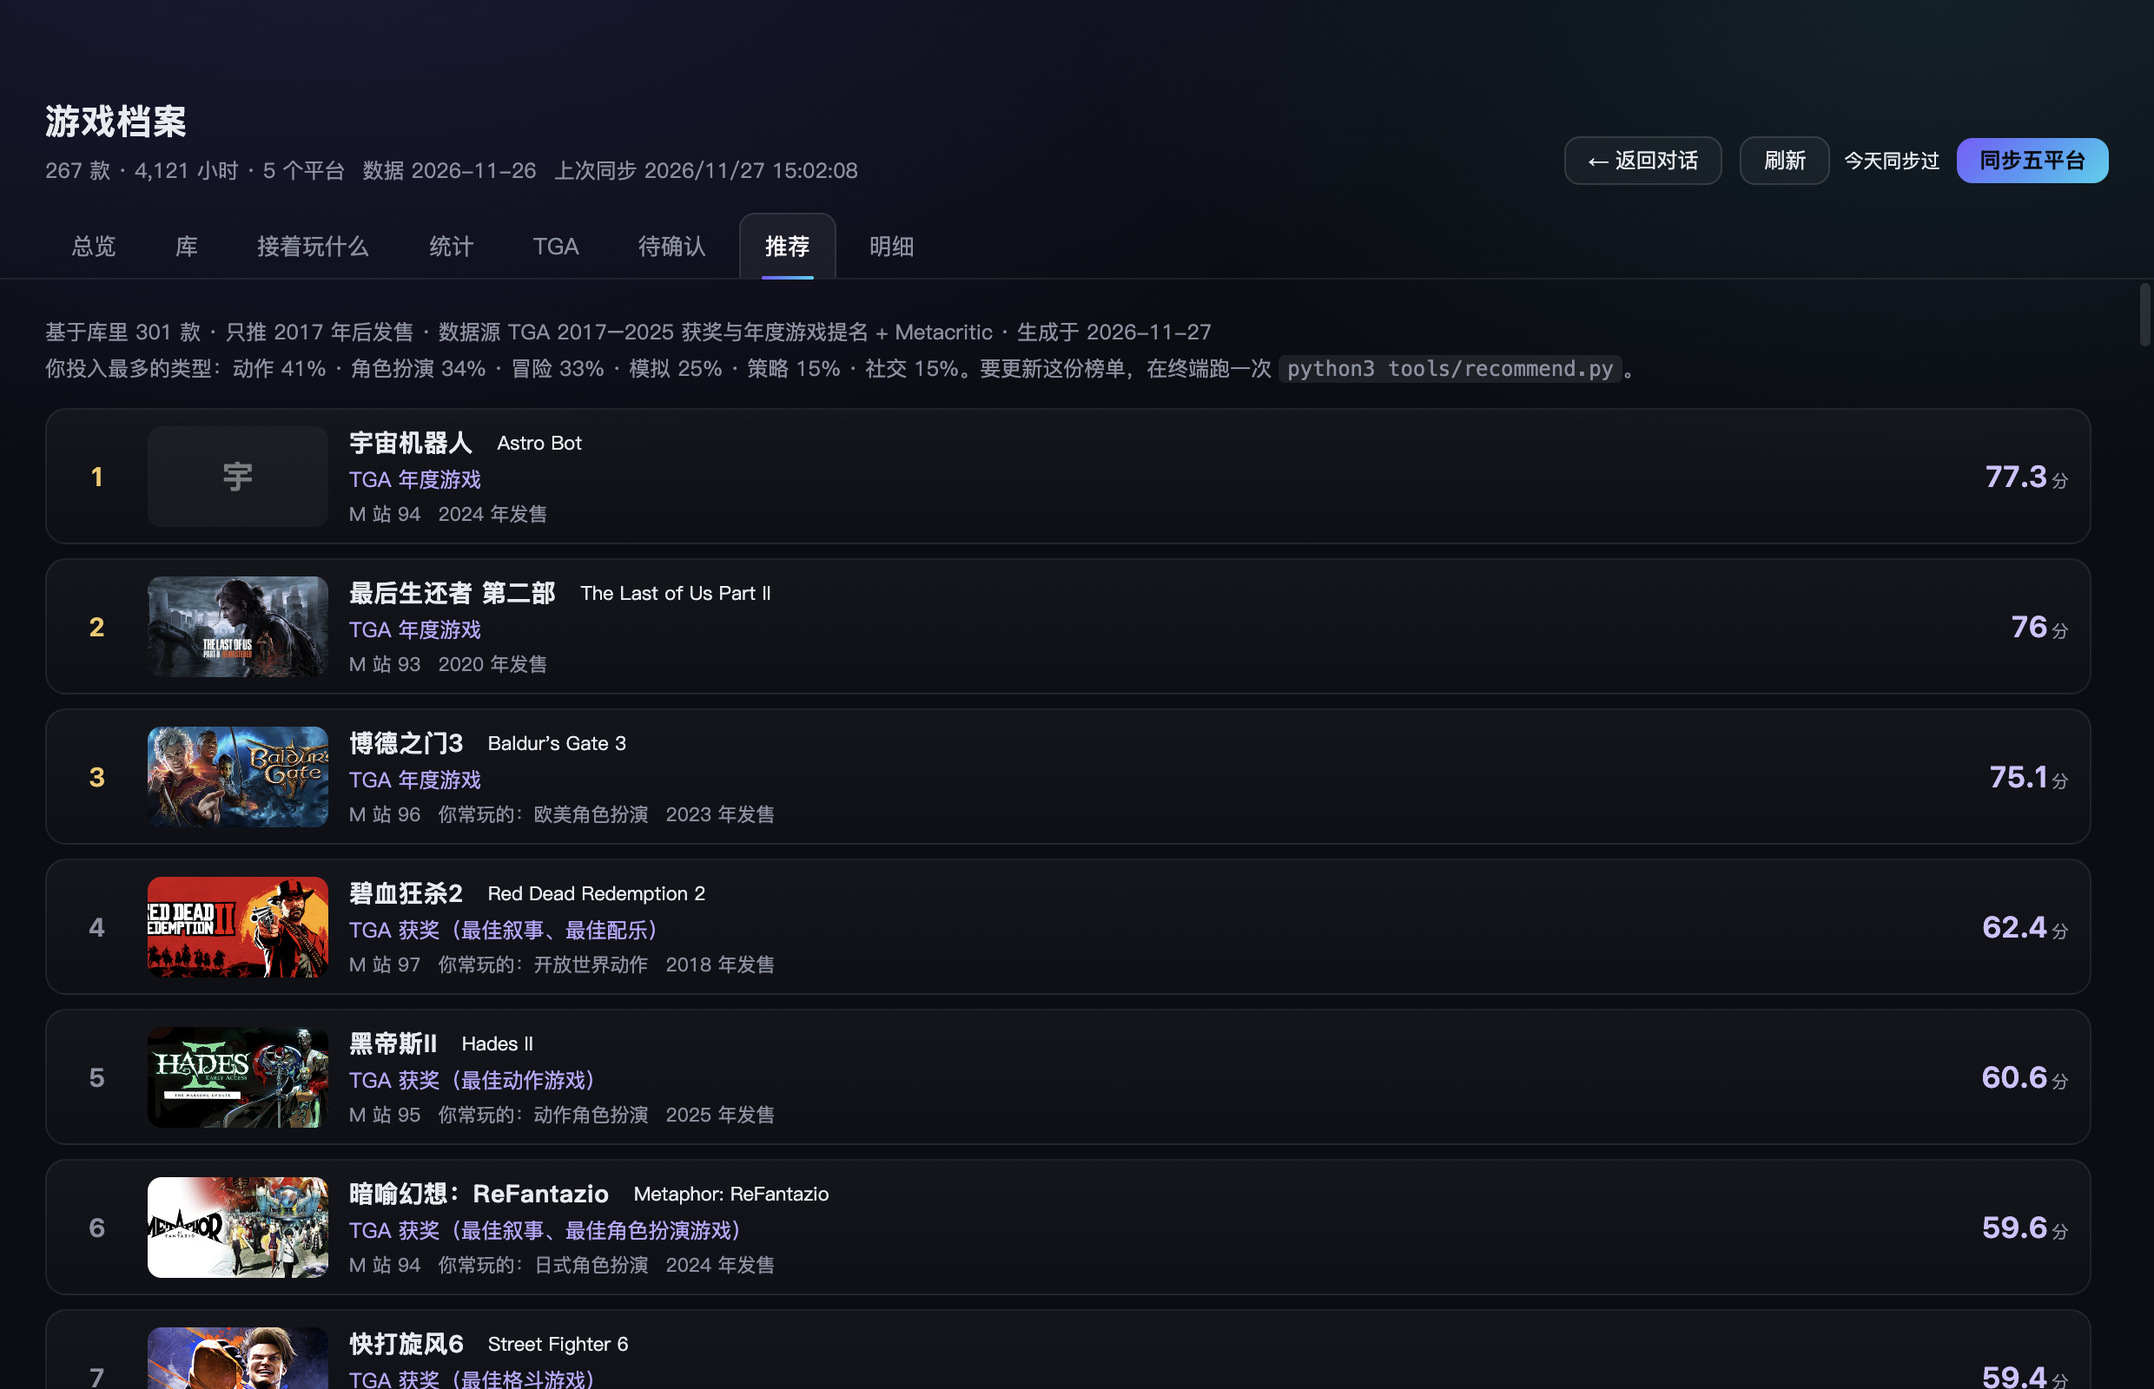
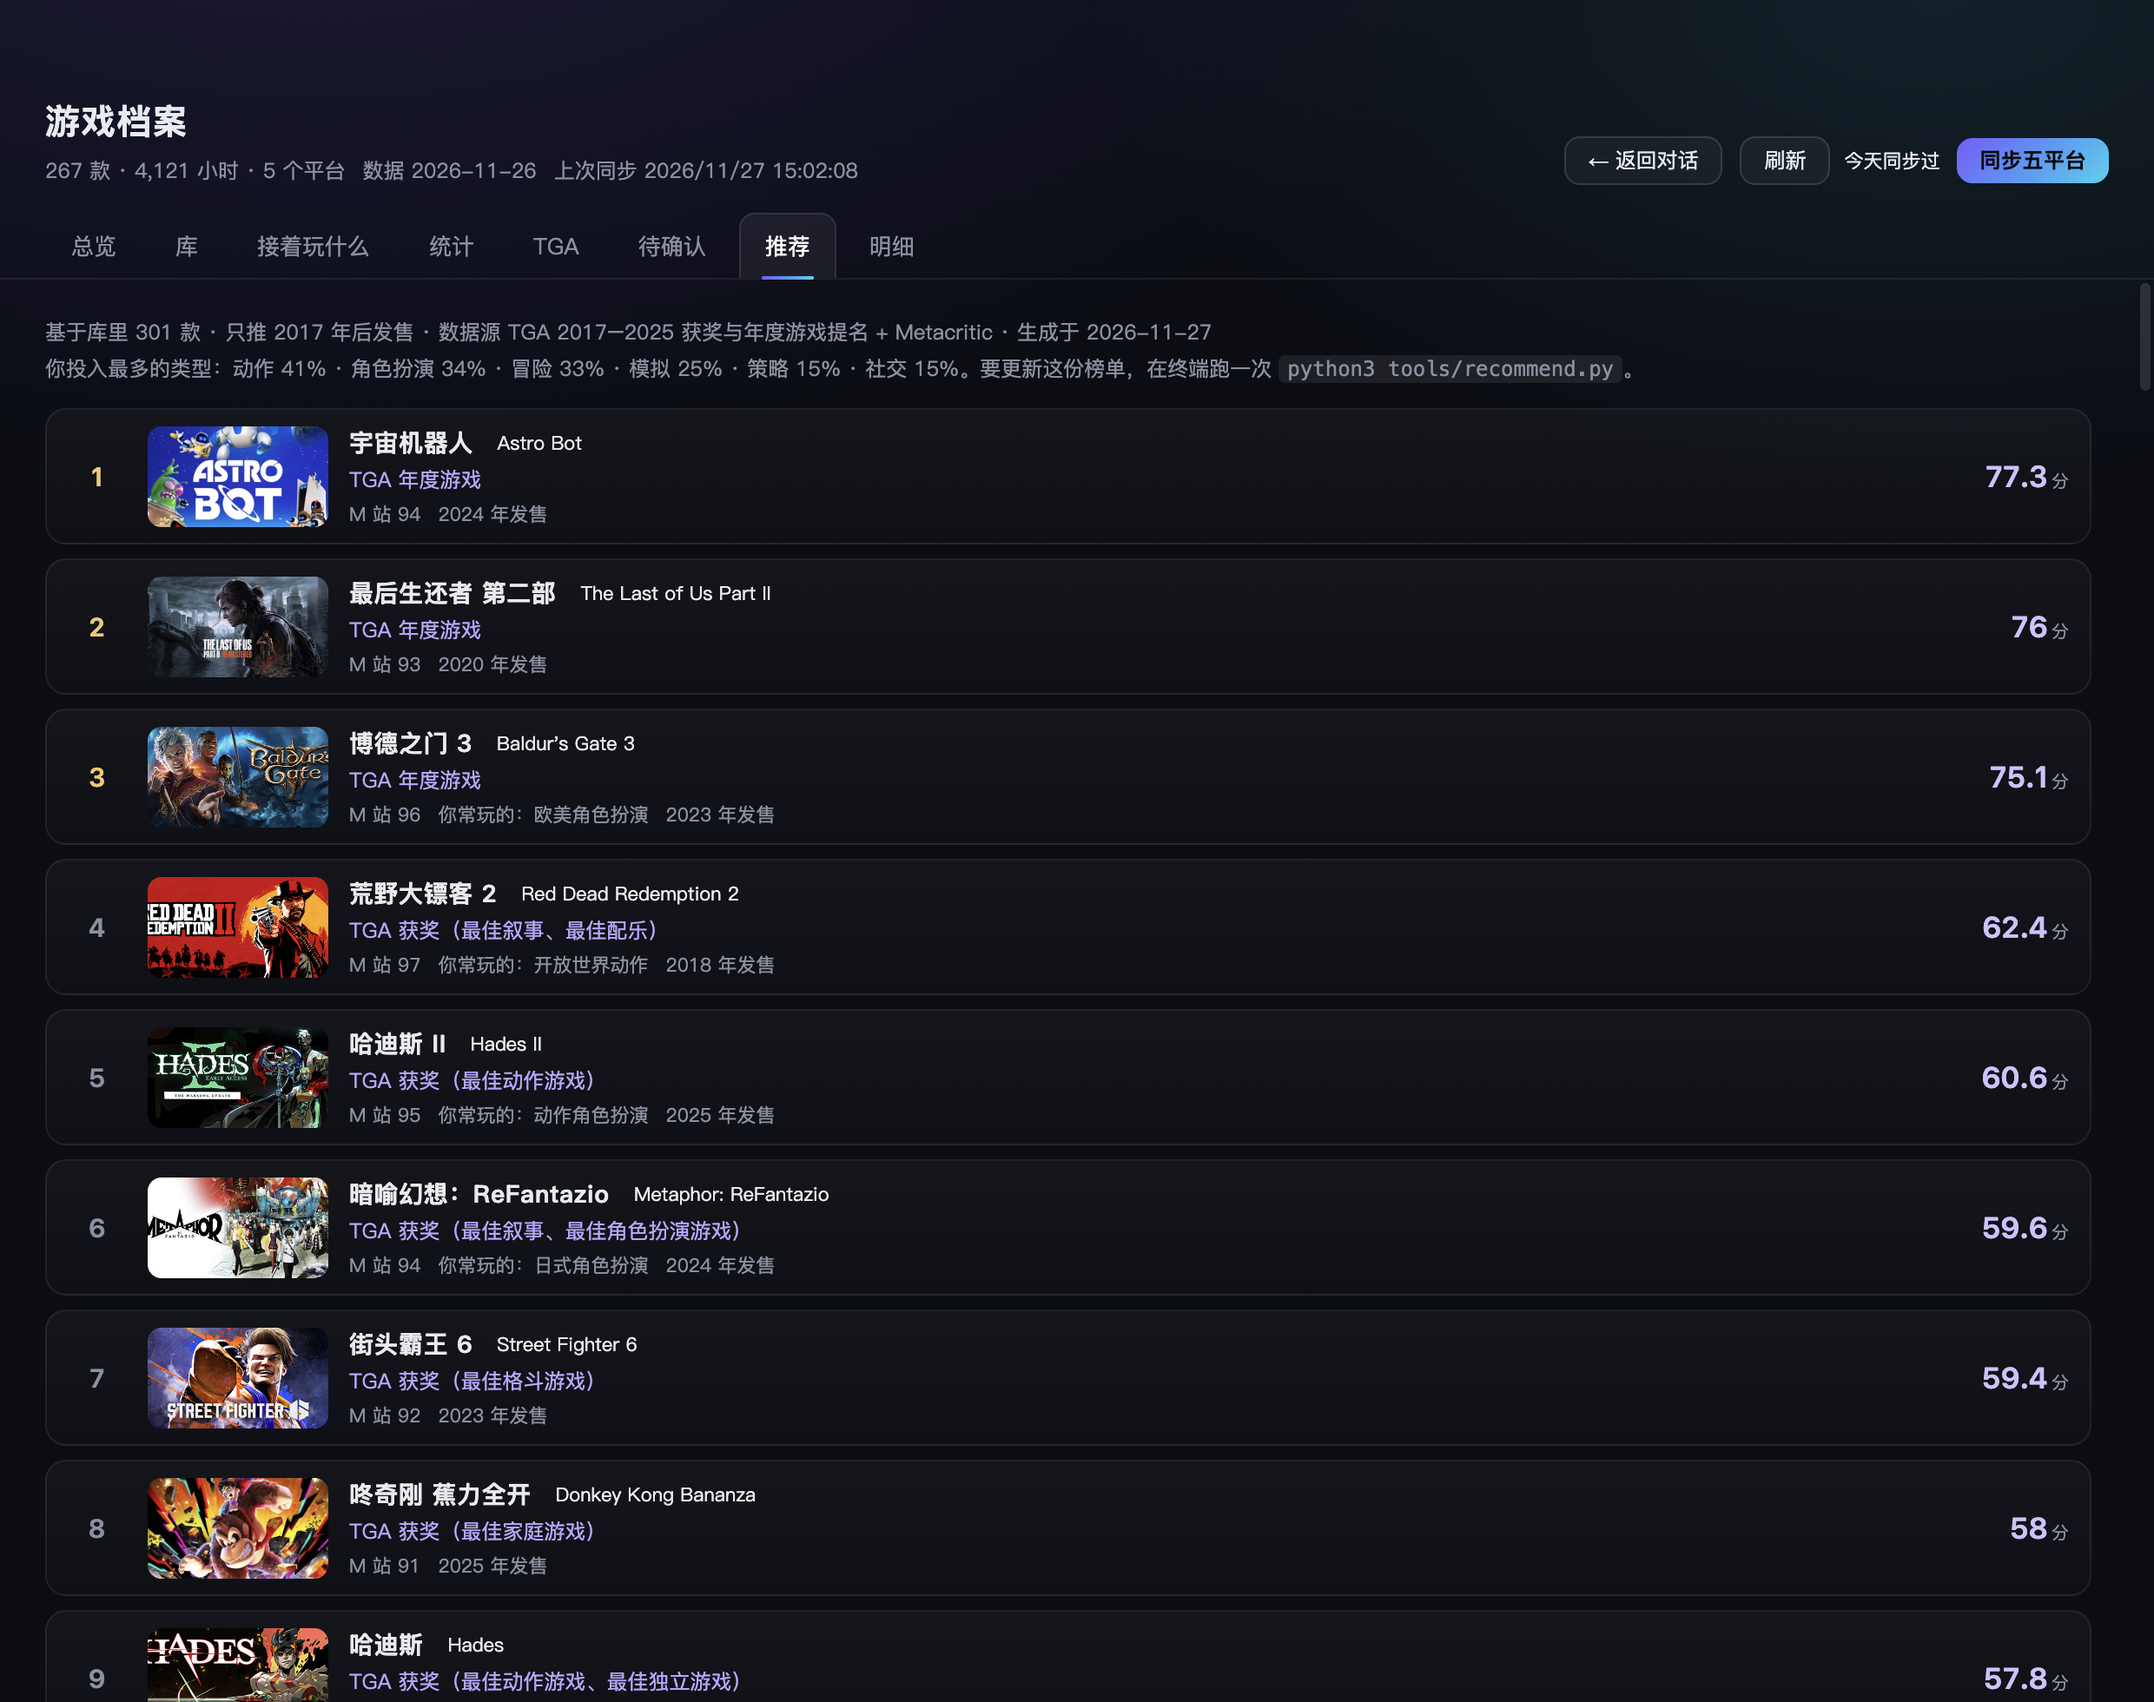
推荐榜：国区译名优先(荒野大镖客2/哈迪斯II/街头霸王6)、自动补封面(Steam header→维基原图)

diff --git a/tools/recommend.py b/tools/recommend.py
@@ -41,6 +41,56 @@ def genre_cn(name):
     return GENRE_CN.get(str(name).strip().lower(), name)
 
 
+# 维基 langlinks 给的中文名常是台译（碧血狂杀/快打旋风/黑帝斯），这里手动钉死国区译名
+MANUAL_CN = {
+    "Red Dead Redemption 2": "荒野大镖客 2",
+    "Hades": "哈迪斯",
+    "Hades II": "哈迪斯 II",
+    "Street Fighter 6": "街头霸王 6",
+    "Marvel's Spider-Man 2": "漫威蜘蛛侠 2",
+    "Devil May Cry 5": "鬼泣 5",
+    "Mario Kart 8 Deluxe": "马力欧卡丁车 8 豪华版",
+    "Super Mario 3D World + Bowser's Fury": "超级马力欧 3D 世界 + 狂怒世界",
+    "Monster Hunter World: Iceborne": "怪物猎人世界：冰原",
+    "Astro Bot": "宇宙机器人",
+    "The Last of Us Part II": "最后生还者 第二部",
+    "Baldur's Gate 3": "博德之门 3",
+    "Metaphor: ReFantazio": "暗喻幻想：ReFantazio",
+    "The Legend of Zelda: Ocarina of Time": "塞尔达传说：时之笛",
+    "Donkey Kong Bananza": "咚奇刚 蕉力全开",
+}
+
+TW_HINTS = ("碧血", "快打", "黑帝斯", "惡靈", "瑪利歐", "魔物", "戰神", "薩爾達", "潛龍", "太空戰士")
+
+
+def steam_cn(name):
+    """Steam 国区简中名（发行商做了本地化才有），顺手拿 appid。"""
+    r = jget("https://store.steampowered.com/api/storesearch/?term=" + urllib.parse.quote(name) + "&l=english&cc=us")
+    items = (r or {}).get("items") or []
+    hit = next((it for it in items[:8] if norm(it.get("name")) == norm(name)), None)
+    if not hit:
+        return None, None
+    time.sleep(0.8)
+    d = jget(f"https://store.steampowered.com/api/appdetails?appids={hit['id']}&l=schinese&cc=cn")
+    data = ((d or {}).get(str(hit["id"])) or {}).get("data") or {}
+    nm = data.get("name") or ""
+    return (nm if nm and re.search(r"[\u4e00-\u9fff]", nm) and nm != name else None), hit["id"]
+
+
+def guess_cover(name, appid=None):
+    """封面：先 Steam header，再维基英文页原图。"""
+    if not appid:
+        r = jget("https://store.steampowered.com/api/storesearch/?term=" + urllib.parse.quote(name) + "&l=english&cc=us")
+        items = (r or {}).get("items") or []
+        hit = next((it for it in items[:8] if norm(it.get("name")) == norm(name)), None)
+        appid = hit["id"] if hit else None
+    if appid:
+        return f"https://shared.akamai.steamstatic.com/store_item_assets/steam/apps/{appid}/header.jpg"
+    d = jget("https://en.wikipedia.org/api/rest_v1/page/summary/" + urllib.parse.quote(name.replace(" ", "_")))
+    src = ((d or {}).get("originalimage") or {}).get("source") or ""
+    return (src.split("?")[0] or None) if src else None
+
+
 def norm(s):
     s = str(s or "").lower()
     s = re.sub(r"[\u2122\u00ae\u2120]", "", s)
@@ -141,6 +191,7 @@ def main():
     ap.add_argument("--sleep", type=float, default=1.0)
     ap.add_argument("--no-mc", action="store_true", help="不查 Metacritic（快，但没分数）")
     ap.add_argument("--allow-unknown", action="store_true", help="没查到发售日的也留着（默认剔掉）")
+    ap.add_argument("--no-cover", action="store_true", help="不补封面（省时间，前端显示色块）")
     args = ap.parse_args()
     SLEEP = args.sleep
 
@@ -188,12 +239,18 @@ def main():
         key = norm(name)
         if not key or owned_already(name):
             return
-        cn = ""
-        mv = media.get(name)
-        if isinstance(mv, dict):
-            cn = mv.get("cn") or ""
+        cn = MANUAL_CN.get(name, "")
+        if not cn:
+            mv = media.get(name)
+            if isinstance(mv, dict):
+                cn = mv.get("cn") or ""
         if not cn and isinstance(alias.get(name), str):
             cn = alias[name]
+        # 台译看着别扭的，再问一次 Steam 国区
+        if cn and any(t in cn for t in TW_HINTS) and name not in MANUAL_CN:
+            got, _ = steam_cn(name)
+            if got:
+                cn = got
         # 中文名质量兜底：维基偶尔给「XX系列」「XX列表」，宁可不显示
         if cn and (len(cn) > 18 or re.search(r"系列|列表|游戏界|年電子|公司|股份有限公司", cn)):
             cn = ""
@@ -266,7 +323,11 @@ def main():
             why.append("你常玩的：" + "、".join(hit[:3]))
         if c.get("release"):
             why.append(f"{c['release'][:4]} 年发售")
-        out.append({**c, "score": round(score, 1), "why": why, "tier": round(tier, 2)})
+        cover = None
+        if not args.no_cover:
+            cover = c.get("cover") or guess_cover(c["name"], c.get("appid"))
+            time.sleep(SLEEP * 0.6)
+        out.append({**c, "score": round(score, 1), "why": why, "tier": round(tier, 2), "cover": cover})
 
     out.sort(key=lambda x: -x["score"])
     out = out[:args.limit]
